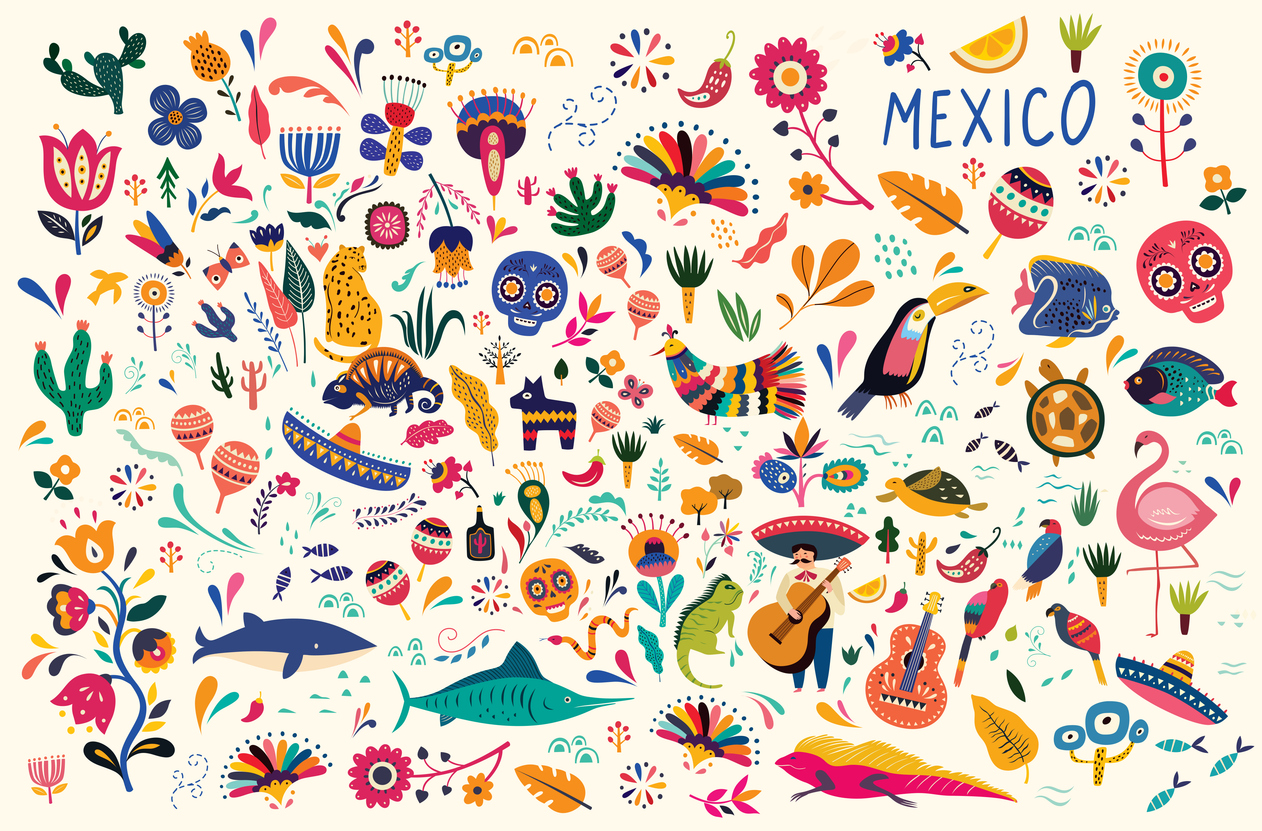
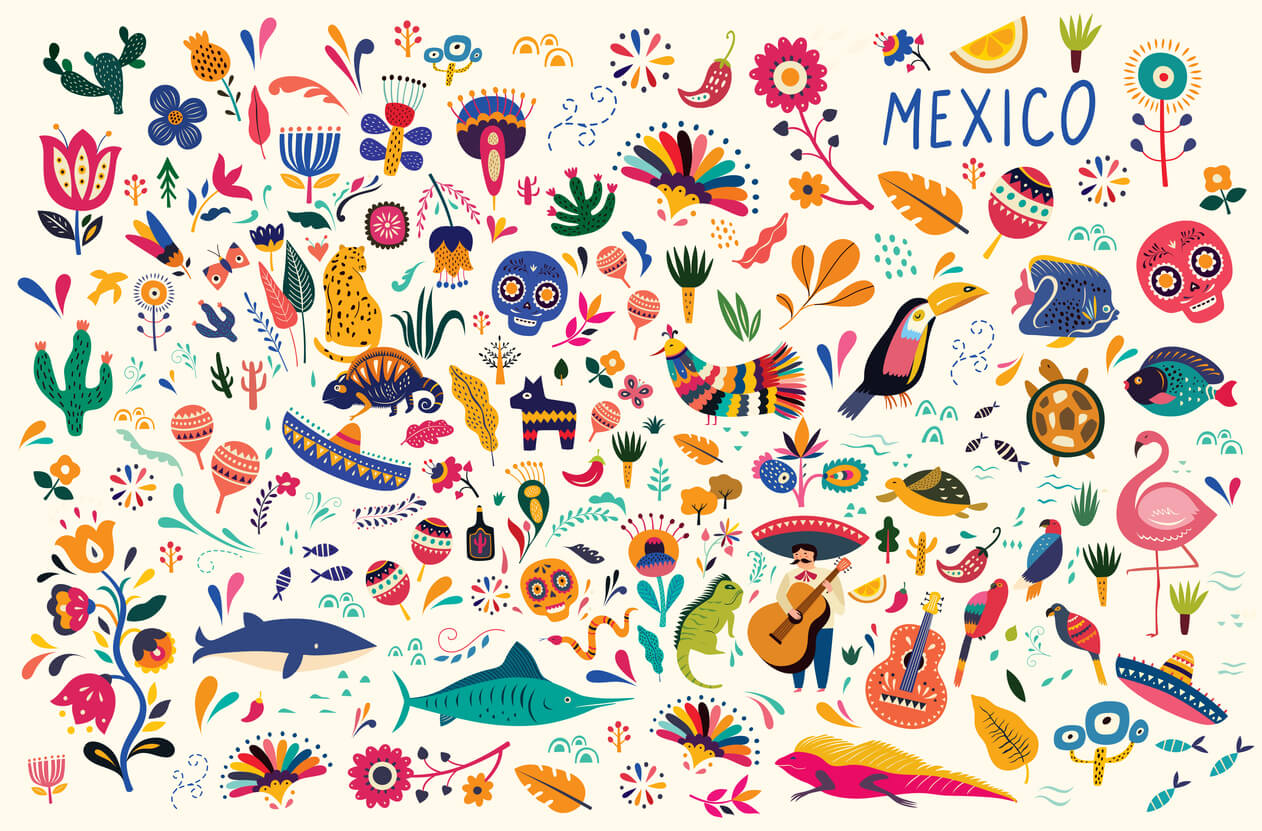
O projektu - v řešení

diff --git a/_site/css/style.min.css b/_site/css/style.min.css
@@ -1,1 +1,1 @@
-html{box-sizing:border-box}*,::before,::after{box-sizing:inherit}body{max-width:500px;margin:0 auto;padding:0 20px;line-height:1.5;text-align:center;font-family:"Nunito",Helvetica,Arial,sans-serif;font-size:13px;font-optical-sizing:auto;background-color:#fff}.header__inner{position:relative;display:flex;justify-content:right;align-items:center;margin-top:30px}.header__logo{width:20%;position:absolute;left:45px;top:15px}.menu__list{list-style:none;margin:0;padding:0;display:flex}.menu__link{display:block;padding:10px;font-family:"Nunito",Helvetica,Arial,sans-serif;font-size:14px;text-decoration:none;color:#000}.menu__link:hover{color:#ff892c}.hero-image-as-background{width:100%;height:150px;background-image:url(../Images/Mexico_animated_komprese.jpg);background-repeat:no-repeat;background-size:cover}.main__a1-title,.main__a2-title{padding-top:50px;padding-bottom:20px;margin:0;font-family:"Nunito",Helvetica,Arial,sans-serif;font-size:16px;color:#f77f00}.main__a1-picture,.main__a2-picture{width:80%;border:2px solid #cc5803;border-radius:5%}.main__button{padding:5px 10px;border:1px solid #ff892c;border-radius:10%;background-color:#ff892c;font-family:"Nunito",Helvetica,Arial,sans-serif}.main .read-more{color:#fff;text-decoration:none}.footer{font-size:12px;color:#adb5bd;margin-top:50px;margin-bottom:10px}.about_project1-title{font-size:14px;margin:0;padding-top:50px;padding-bottom:20px}.about_project2-picture{max-width:100%;height:344px;border:2px solid #cc5803;border-radius:5%}/*# sourceMappingURL=style.min.css.map */
+html{box-sizing:border-box}*,::before,::after{box-sizing:inherit}body{max-width:500px;margin:0 auto;padding:0 20px;line-height:1.5;text-align:center;font-family:"Nunito",Helvetica,Arial,sans-serif;font-size:13px;font-optical-sizing:auto;background-color:#fff}.header__inner{position:relative;display:flex;justify-content:right;align-items:center;margin-top:30px}.header__logo{width:20%;position:absolute;left:45px;top:15px}.menu__list{list-style:none;margin:0;padding:0;display:flex}.menu__link{display:block;padding:10px;font-family:"Nunito",Helvetica,Arial,sans-serif;font-size:14px;text-decoration:none;color:#000}.menu__link:hover{color:#ff892c}.hero-image-as-background{width:100%;height:150px;background-image:url(../Images/Mexico_animated.jpg);background-repeat:no-repeat;background-size:cover}.main__a1-title,.main__a2-title{padding-top:50px;padding-bottom:20px;margin:0;font-family:"Nunito",Helvetica,Arial,sans-serif;font-size:16px;color:#f77f00}.main__a1-picture,.main__a2-picture{width:80%;border:2px solid #cc5803;border-radius:5%}.main__button{padding:5px 10px;border:1px solid #ff892c;border-radius:10%;background-color:#ff892c;font-family:"Nunito",Helvetica,Arial,sans-serif}.main .read-more{color:#fff;text-decoration:none}.footer{font-size:12px;color:#adb5bd;margin-top:50px;margin-bottom:10px}.project__1-title{font-family:"Nunito",Helvetica,Arial,sans-serif;font-size:16px;color:#f77f00;padding-top:50px;padding-bottom:20px;margin:0}.project__2{width:80%;height:300px;margin-top:50px;margin-bottom:200px;margin-right:0;margin-left:0;background-image:url(../Images/mi\ foto.jpg);background-repeat:no-repeat;background-size:cover;background-position:center;border:2px solid #cc5803;border-radius:5%}/*# sourceMappingURL=style.min.css.map */

diff --git a/css/style.min.css b/css/style.min.css
@@ -1,1 +1,1 @@
-html{box-sizing:border-box}*,::before,::after{box-sizing:inherit}body{max-width:500px;margin:0 auto;padding:0 20px;line-height:1.5;text-align:center;font-family:"Nunito",Helvetica,Arial,sans-serif;font-size:13px;font-optical-sizing:auto;background-color:#fff}.header__inner{position:relative;display:flex;justify-content:right;align-items:center;margin-top:30px}.header__logo{width:20%;position:absolute;left:45px;top:15px}.menu__list{list-style:none;margin:0;padding:0;display:flex}.menu__link{display:block;padding:10px;font-family:"Nunito",Helvetica,Arial,sans-serif;font-size:14px;text-decoration:none;color:#000}.menu__link:hover{color:#ff892c}.hero-image-as-background{width:100%;height:150px;background-image:url(../Images/Mexico_animated_komprese.jpg);background-repeat:no-repeat;background-size:cover}.main__a1-title,.main__a2-title{padding-top:50px;padding-bottom:20px;margin:0;font-family:"Nunito",Helvetica,Arial,sans-serif;font-size:16px;color:#f77f00}.main__a1-picture,.main__a2-picture{width:80%;border:2px solid #cc5803;border-radius:5%}.main__button{padding:5px 10px;border:1px solid #ff892c;border-radius:10%;background-color:#ff892c;font-family:"Nunito",Helvetica,Arial,sans-serif}.main .read-more{color:#fff;text-decoration:none}.footer{font-size:12px;color:#adb5bd;margin-top:50px;margin-bottom:10px}.about_project1-title{font-size:14px;margin:0;padding-top:50px;padding-bottom:20px}.about_project2-picture{max-width:100%;height:344px;border:2px solid #cc5803;border-radius:5%}/*# sourceMappingURL=style.min.css.map */
+html{box-sizing:border-box}*,::before,::after{box-sizing:inherit}body{max-width:500px;margin:0 auto;padding:0 20px;line-height:1.5;text-align:center;font-family:"Nunito",Helvetica,Arial,sans-serif;font-size:13px;font-optical-sizing:auto;background-color:#fff}.header__inner{position:relative;display:flex;justify-content:right;align-items:center;margin-top:30px}.header__logo{width:20%;position:absolute;left:45px;top:15px}.menu__list{list-style:none;margin:0;padding:0;display:flex}.menu__link{display:block;padding:10px;font-family:"Nunito",Helvetica,Arial,sans-serif;font-size:14px;text-decoration:none;color:#000}.menu__link:hover{color:#ff892c}.hero-image-as-background{width:100%;height:150px;background-image:url(../Images/Mexico_animated.jpg);background-repeat:no-repeat;background-size:cover}.main__a1-title,.main__a2-title{padding-top:50px;padding-bottom:20px;margin:0;font-family:"Nunito",Helvetica,Arial,sans-serif;font-size:16px;color:#f77f00}.main__a1-picture,.main__a2-picture{width:80%;border:2px solid #cc5803;border-radius:5%}.main__button{padding:5px 10px;border:1px solid #ff892c;border-radius:10%;background-color:#ff892c;font-family:"Nunito",Helvetica,Arial,sans-serif}.main .read-more{color:#fff;text-decoration:none}.footer{font-size:12px;color:#adb5bd;margin-top:50px;margin-bottom:10px}.project__1-title{font-family:"Nunito",Helvetica,Arial,sans-serif;font-size:16px;color:#f77f00;padding-top:50px;padding-bottom:20px;margin:0}.project__2{width:80%;height:300px;margin-top:50px;margin-bottom:200px;margin-right:0;margin-left:0;background-image:url(../Images/mi\ foto.jpg);background-repeat:no-repeat;background-size:cover;background-position:center;border:2px solid #cc5803;border-radius:5%}/*# sourceMappingURL=style.min.css.map */

diff --git a/projekt.html b/projekt.html
@@ -1,23 +1,24 @@
 ---
 layout: main-template.njk
 title: O projektu
+heroimg: calle con flores_komprese.jpg
 ---
 
-<div class="about_project">
+<div class="project">
 
-    <div class="about_project1">
+    <div class="project__1">
 
-        <h3 class="about_project1-title">Jak tento projekt vznikl ...</h3>
+        <h3 class="project__1-title">Jak tento projekt vznikl ...</h3>
 
-        <p class="about_project1-paragraph"> Můj web vznikl jako malý projekt v rámci kurzu HTML a CSS, který dělám s Czechitas – neziskovkou, která pomáhá maminkám na mateřské dostat se do světa IT. Rozhodla jsem se psát o Španělsku a Latinské Americe, protože miluju španělštinu (kterou i ve volném čase učím) a tyhle země mě neskutečně lákají. Chci se o nich dozvědět víc, a zároveň si na vlastním webu trénovat to, co se učím – psaní kódu i článků.</p>
-
-    </div>
-
-    <div class="about_project2">
-
-        <img class="about_project2-picture" src="/Images/Moje foto_Mallorca_komprese.jpg" alt="fotka Nicole">
+        <p class="project__1-paragraph"> Můj web vznikl jako malý projekt v rámci kurzu HTML a CSS, který dělám s Czechitas – neziskovkou, která pomáhá maminkám na mateřské dostat se do světa IT. Rozhodla jsem se psát o Španělsku a Latinské Americe, protože miluju španělštinu (kterou i ve volném čase učím) a tyhle země mě neskutečně lákají. Chci se o nich dozvědět víc, a zároveň si na vlastním webu trénovat to, co se učím – psaní kódu i článků.</p>
 
     </div>
 
+    <div class="project__2"></div>
+
+
+        <!--<img class="about_project2-picture" src="/Images/Moje foto_Mallorca_komprese.jpg" alt="fotka Nicole"> -->
+
+   
 </div>
 

diff --git a/SCSS/_project.scss b/SCSS/_project.scss
@@ -2,20 +2,31 @@
 @use "text";
 @use "base";
 
-.about_project1-title {
+.project {
 
-        font-size: text.$size-menu-link;
-        margin: 0;
-        padding-top: 50px;
-        padding-bottom: 20px;
+        &__1-title {
+
+                font-family: text.$font-base;
+                font-size: text.$size-h2;
+                color: colors.$title-article;
+                padding-top: 50px;
+                padding-bottom: 20px;
+                margin: 0;
+        }
+
+        &__2 {
+                width: 80%;
+                height: 300px; 
+                margin-top: 50px;
+                margin-bottom: 200px;
+                margin-right: 0;
+                margin-left: 0;
+                background-image: url(../Images/mi\ foto.jpg);
+                background-repeat: no-repeat;
+                background-size: cover;
+                background-position: center;
+                border: 2px solid colors.$logo-stroke;
+                border-radius: 5%;
+                
+        }
     }
-
-.about_project2-picture {
-
-        max-width: 100%;
-        height: 344px;
-        border: 2px solid colors.$logo-stroke;
-        border-radius: 5%;
-
-
-}

diff --git a/_site/css/style.css b/_site/css/style.css
@@ -54,7 +54,7 @@ body {
 .hero-image-as-background {
   width: 100%;
   height: 150px;
-  background-image: url(../Images/Mexico_animated_komprese.jpg);
+  background-image: url(../Images/Mexico_animated.jpg);
   background-repeat: no-repeat;
   background-size: cover;
 }
@@ -91,16 +91,25 @@ body {
   margin-bottom: 10px;
 }
 
-.about_project1-title {
-  font-size: 14px;
-  margin: 0;
+.project__1-title {
+  font-family: "Nunito", Helvetica, Arial, sans-serif;
+  font-size: 16px;
+  color: #f77f00;
   padding-top: 50px;
   padding-bottom: 20px;
+  margin: 0;
 }
-
-.about_project2-picture {
-  max-width: 100%;
-  height: 344px;
+.project__2 {
+  width: 80%;
+  height: 300px;
+  margin-top: 50px;
+  margin-bottom: 200px;
+  margin-right: 0;
+  margin-left: 0;
+  background-image: url(../Images/mi\ foto.jpg);
+  background-repeat: no-repeat;
+  background-size: cover;
+  background-position: center;
   border: 2px solid #CC5803;
   border-radius: 5%;
 }/*# sourceMappingURL=style.css.map */

diff --git a/css/style.css b/css/style.css
@@ -54,7 +54,7 @@ body {
 .hero-image-as-background {
   width: 100%;
   height: 150px;
-  background-image: url(../Images/Mexico_animated_komprese.jpg);
+  background-image: url(../Images/Mexico_animated.jpg);
   background-repeat: no-repeat;
   background-size: cover;
 }
@@ -91,16 +91,25 @@ body {
   margin-bottom: 10px;
 }
 
-.about_project1-title {
-  font-size: 14px;
-  margin: 0;
+.project__1-title {
+  font-family: "Nunito", Helvetica, Arial, sans-serif;
+  font-size: 16px;
+  color: #f77f00;
   padding-top: 50px;
   padding-bottom: 20px;
+  margin: 0;
 }
-
-.about_project2-picture {
-  max-width: 100%;
-  height: 344px;
+.project__2 {
+  width: 80%;
+  height: 300px;
+  margin-top: 50px;
+  margin-bottom: 200px;
+  margin-right: 0;
+  margin-left: 0;
+  background-image: url(../Images/mi\ foto.jpg);
+  background-repeat: no-repeat;
+  background-size: cover;
+  background-position: center;
   border: 2px solid #CC5803;
   border-radius: 5%;
 }/*# sourceMappingURL=style.css.map */

diff --git a/index.html b/index.html
@@ -7,7 +7,7 @@ title: Poznej španělský svět
 
                 <h2 class="main__a1-title">La Pedrera: Klenot modernismu v srdci Barcelony</h2>
 
-                <img class="main__a1-picture" src="Images/pedrera2_komprese.jpg" alt="La Pedrera">
+                <img class="main__a1-picture" src="Images/pedrera.jpg" alt="La Pedrera">
 
                 <p class="main__a1-paragraph">V samém srdci barcelonské čtvrti Eixample se tyčí jedna z nejikoničtějších staveb katalánské metropole — La Pedrera, známá také jako Casa Milà. Tato mimořádná budova, kterou navrhl slavný architekt Antoni Gaudí, je jedním z nejvýraznějších příkladů katalánského modernismu a zároveň posledním civilním projektem, na kterém Gaudí pracoval před tím, než se plně věnoval stavbě chrámu Sagrada Família.</p>
 

diff --git a/_site/index.html b/_site/index.html
@@ -46,7 +46,7 @@
 
                 <h2 class="main__a1-title">La Pedrera: Klenot modernismu v srdci Barcelony</h2>
 
-                <img class="main__a1-picture" src="Images/pedrera2_komprese.jpg" alt="La Pedrera">
+                <img class="main__a1-picture" src="Images/pedrera.jpg" alt="La Pedrera">
 
                 <p class="main__a1-paragraph">V samém srdci barcelonské čtvrti Eixample se tyčí jedna z nejikoničtějších staveb katalánské metropole — La Pedrera, známá také jako Casa Milà. Tato mimořádná budova, kterou navrhl slavný architekt Antoni Gaudí, je jedním z nejvýraznějších příkladů katalánského modernismu a zároveň posledním civilním projektem, na kterém Gaudí pracoval před tím, než se plně věnoval stavbě chrámu Sagrada Família.</p>
 

diff --git a/SCSS/_header.scss b/SCSS/_header.scss
@@ -46,7 +46,7 @@
 .hero-image-as-background {
     width: 100%;
     height: 150px; 
-    background-image: url(../Images/Mexico_animated_komprese.jpg);
+    background-image: url(../Images/Mexico_animated.jpg);
     background-repeat: no-repeat;
     background-size: cover;
 }

diff --git a/spanelsko.html b/spanelsko.html
@@ -1,0 +1,5 @@
+---
+layout: main-template.njk
+title: Španělsko
+heroimg: 
+---
